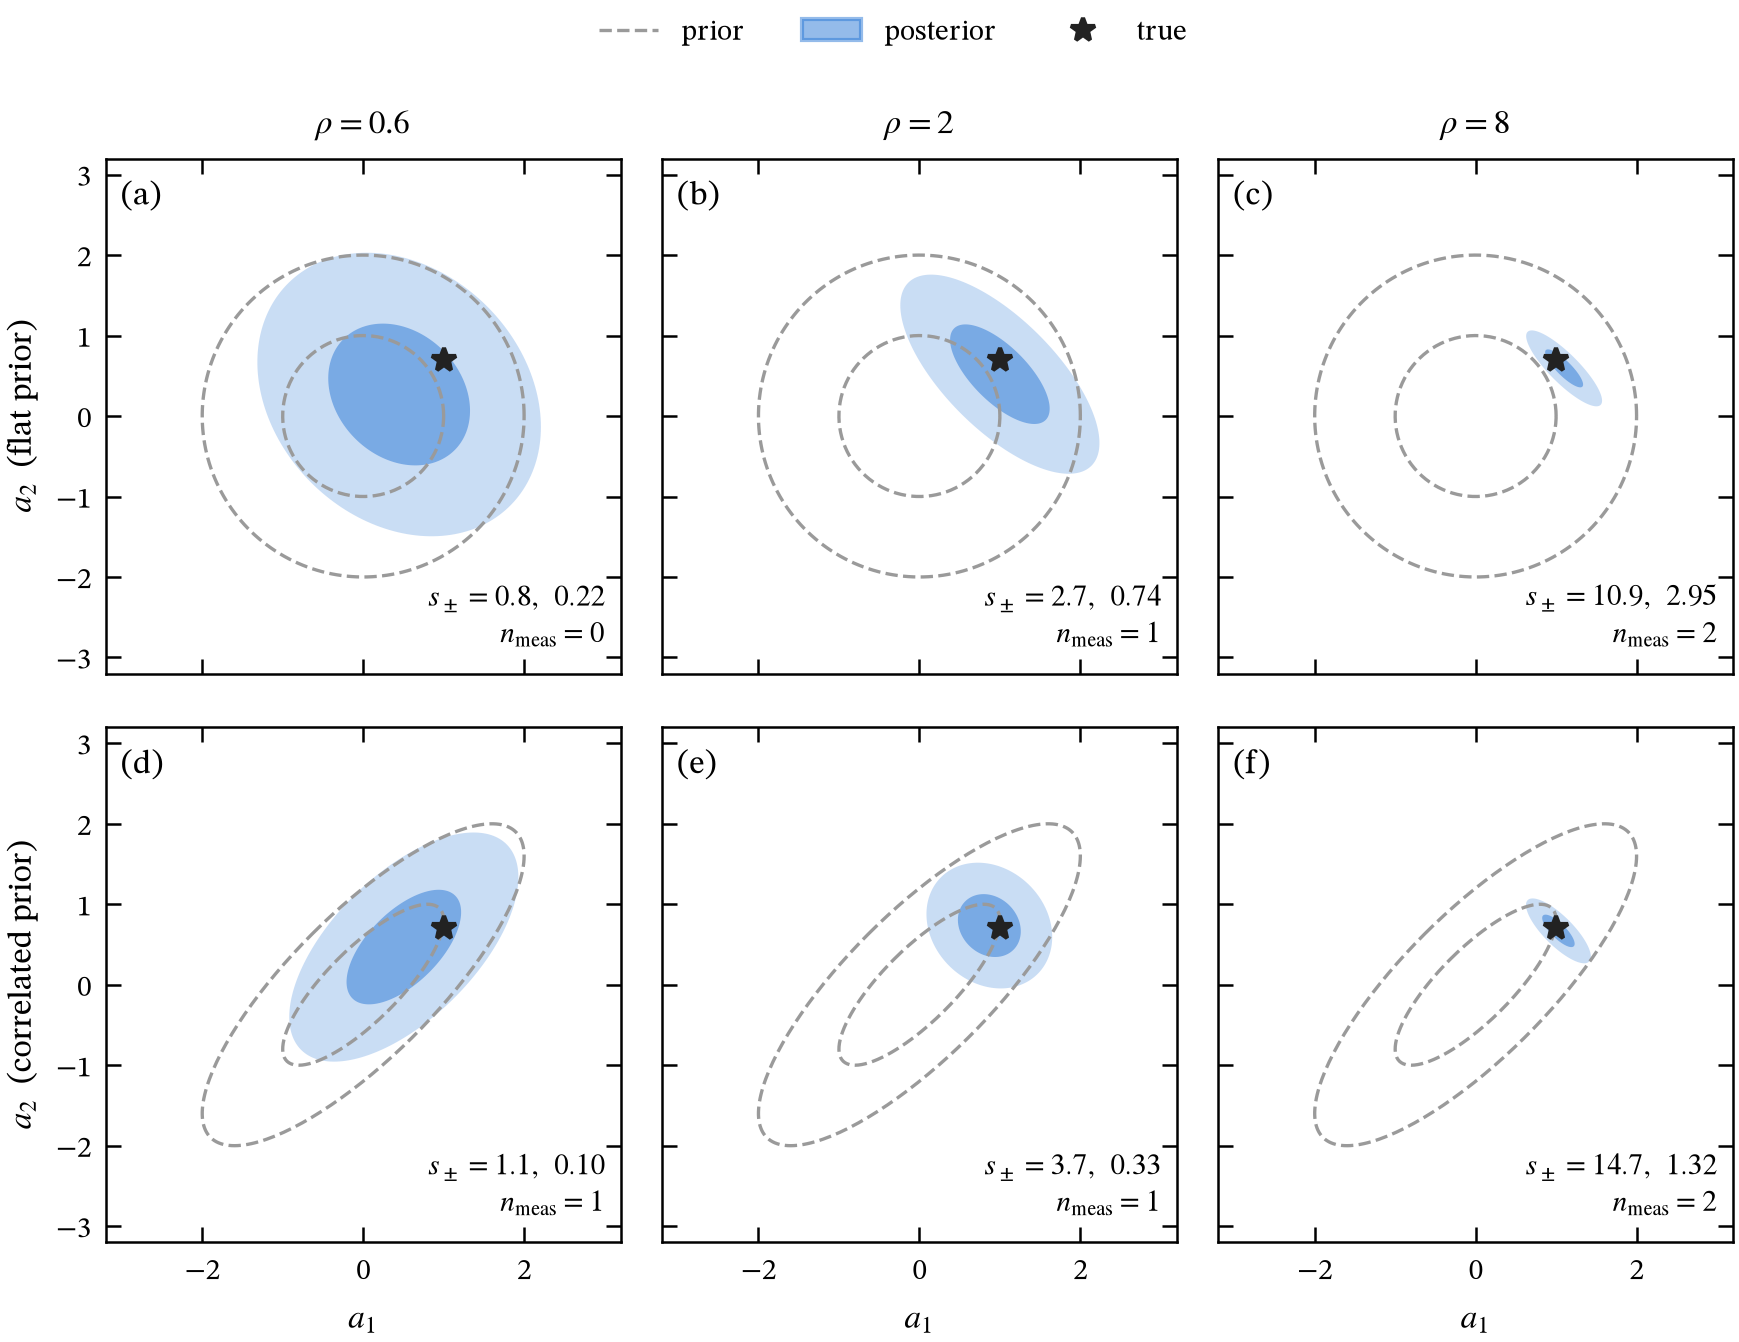
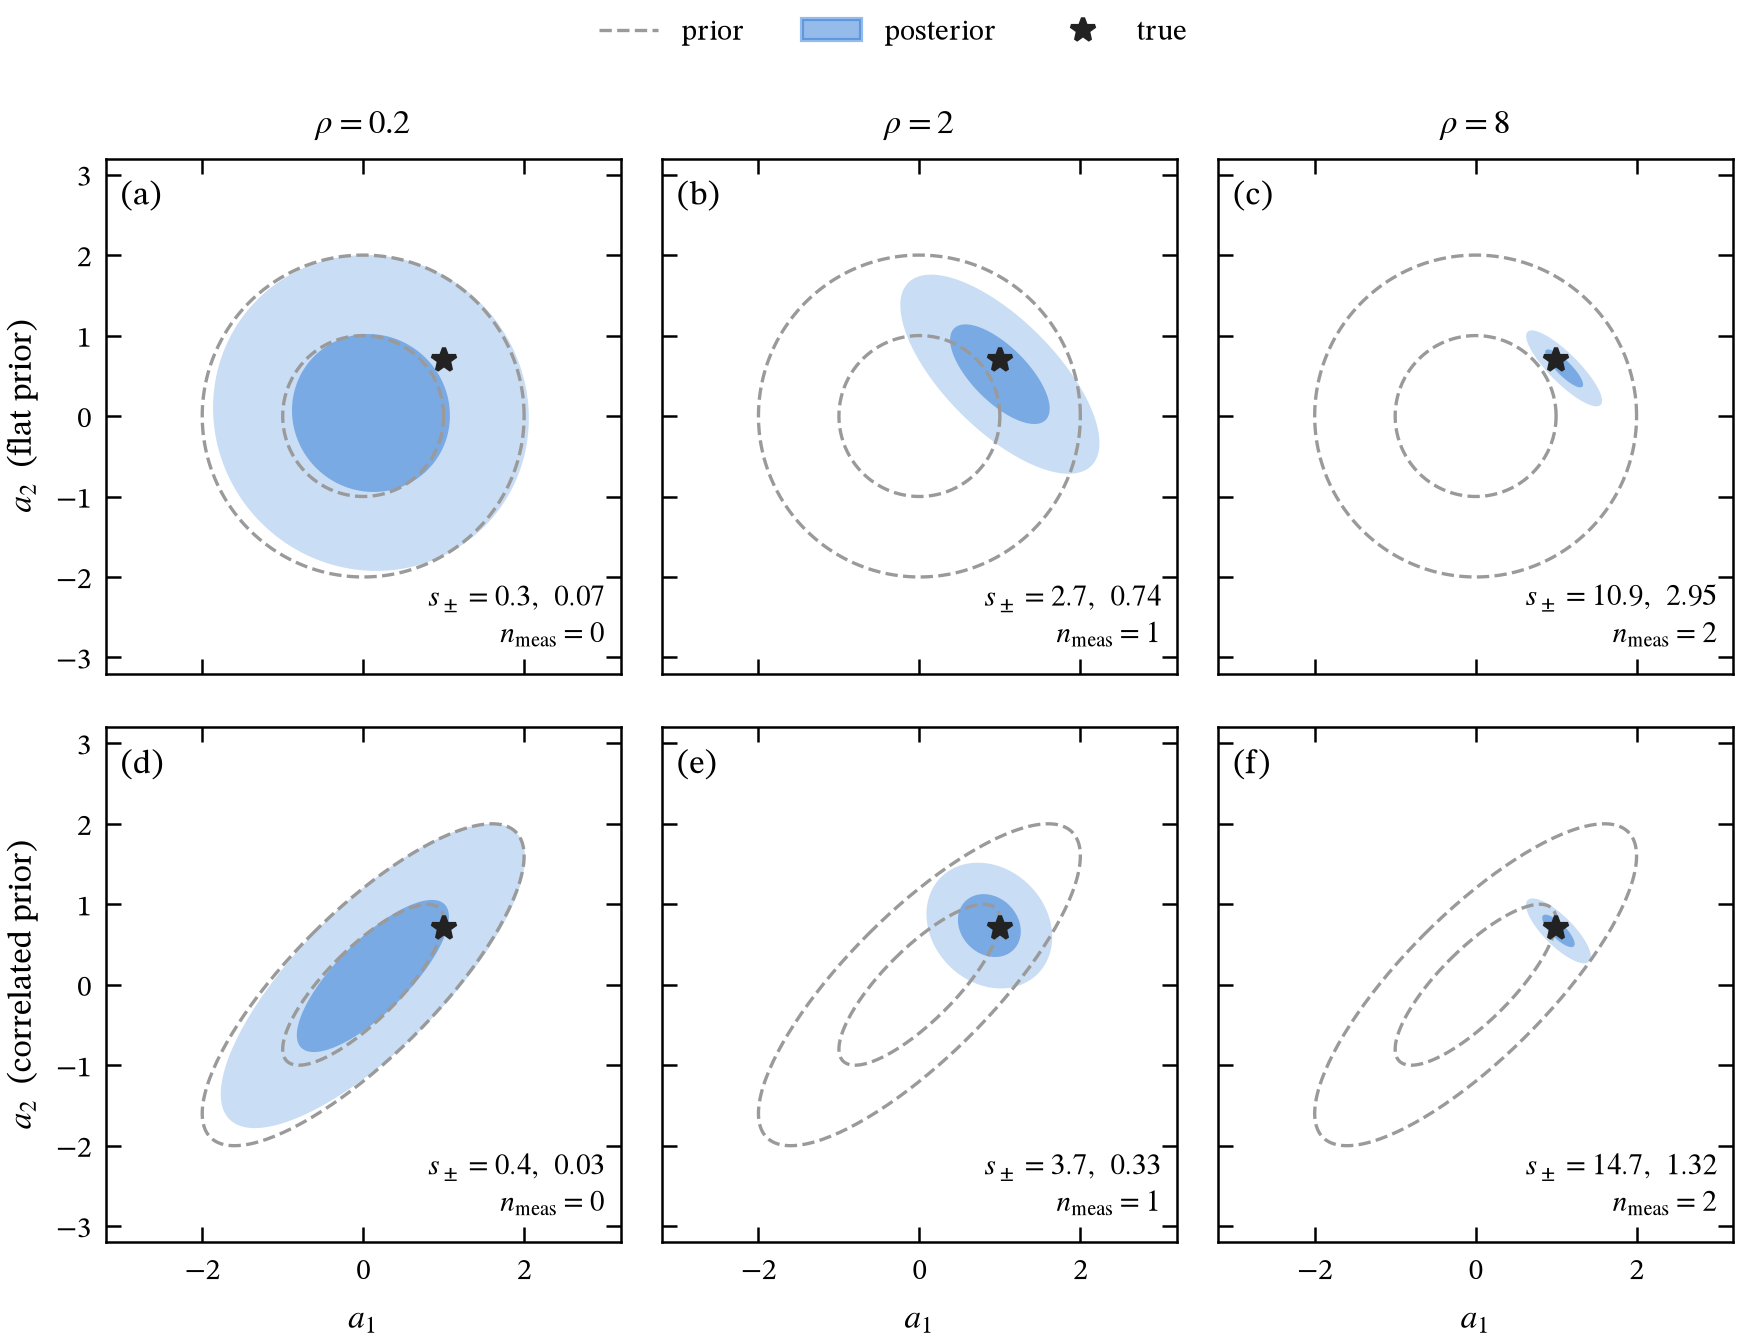
measuring-qnms: non-modal GP (§10, F6), toy F5 at rho=0.2, plan and log

diff --git a/projects/measuring-qnms/results.md b/projects/measuring-qnms/results.md
@@ -1,16 +1,31 @@
 Findings under the v2 model (complex strain, tied mirror modes, detector noise, NR-calibrated priors), newest first. Every analysis starts at $t_0 = 10\,M_f$ after the peak of $|h_{22}|$ unless stated. The v1 plots and the earlier F1 (the calibration scatter) are retired; their numbers remain in the [log](#log).
 
-### F5 — Two-mode toy model: what 0, 1 and 2 measurable channels look like
+### F6 — How does the count depend on the start time? A non-modal GP
 
 <figure>
-<a href="figs/toy_two_modes.png"><img src="figs/toy_two_modes.png" alt="Prior and posterior ellipses of two real amplitudes for three SNRs, flat prior on top and correlated prior below"></a>
-<figcaption>Prior (dashed, 1σ and 2σ) and posterior (filled, 1σ and 2σ) of two real amplitudes $(a_1, a_2)$ for per-mode SNR $\rho = 0.6, 2, 8$ (columns). The data overlap is $c = 0.864$, the 220–221 value at $\chi_f = 0.686$. Top: flat prior. Bottom: correlated prior, $r = 0.8$. The star is the true value, and each panel gives the channel strengths $s_\pm$, with $s_\pm^2 = \rho^2 (1 \pm r)(1 \pm c)$ exactly ([derivations §9](#derivations)).</figcaption>
+<a href="figs/start_time.png"><img src="figs/start_time.png" alt="Measurable channels against analysis start time for O4, CE 40 km and ET under three models"></a>
+<figcaption>$n_{\rm meas}$ against the start time $t_0$ for the GW250114-like source at its distance. Blue: trusted modes (fundamentals + overtones NR sees) with the non-modal Gaussian process added to the noise ([derivations §10](#derivations)). Orange: every mode ($\ell \le 8$, $n \le 7$, unseen overtones zero-mean), no GP. Grey: trusted modes, no GP. The vertical line is the current default start, $10\,M$.</figcaption>
 </figure>
 
 **Takeaway.**
 
-- **Flat prior:** no channels at $\rho = 0.6$ (the posterior barely moves). One at $\rho = 2$: the sum $a_1 + a_2$ is measured and the difference is not. Both at $\rho = 8$. Resolving two overlapping damped modes needs $\rho > 1/\sqrt{1 - c} = 2.7$.
-- **Correlated prior:** the prior already ties $a_1$ to $a_2$. One channel appears at lower SNR, and resolving the difference needs $\rho > 6.1$. At $\rho = 2$ the posterior is compact with only one measurable channel. $n_{\rm meas}$ counts what the *data* teach us; the prior supplies the rest.
+- **Without the GP, starting earlier keeps adding channels:** O4 goes from 6 to 12 and ET from 14 to 25 between $t_0 = 10$ and 0. The free overtones absorb the non-modal content near the merger and are counted as modes.
+- **With the GP, the count is flat for any start before about 10–15 M:** O4 4, CE 40 km 8, ET 10. Early data are down-weighted by the non-modal noise, so the answer no longer depends on the arbitrary choice of $t_0$, and we could start at the merger.
+- The late GP term (14% of each harmonic, decaying with it) changes the counts by at most 1. The effect comes from the early term plus restricting the signal to trusted modes.
+
+**Reproduce.** `python -m mqnm.experiments.start_time`.
+
+### F5 — Two-mode toy model: what 0, 1 and 2 measurable channels look like
+
+<figure>
+<a href="figs/toy_two_modes.png"><img src="figs/toy_two_modes.png" alt="Prior and posterior ellipses of two real amplitudes for three SNRs, flat prior on top and correlated prior below"></a>
+<figcaption>Prior (dashed, 1σ and 2σ) and posterior (filled, 1σ and 2σ) of two real amplitudes $(a_1, a_2)$ for per-mode SNR $\rho = 0.2, 2, 8$ (columns). The data overlap is $c = 0.864$, the 220–221 value at $\chi_f = 0.686$. Top: flat prior. Bottom: correlated prior, $r = 0.8$. The star is the true value, and each panel gives the channel strengths $s_\pm$, with $s_\pm^2 = \rho^2 (1 \pm r)(1 \pm c)$ exactly ([derivations §9](#derivations)).</figcaption>
+</figure>
+
+**Takeaway.**
+
+- **Flat prior:** no channels at $\rho = 0.2$; the posterior is the prior. One at $\rho = 2$: the sum $a_1 + a_2$ is measured and the difference is not. Both at $\rho = 8$. Resolving two overlapping damped modes needs $\rho > 1/\sqrt{1 - c} = 2.7$.
+- **Correlated prior:** again nothing at $\rho = 0.2$. The prior already ties $a_1$ to $a_2$, so resolving the difference needs $\rho > 6.1$. At $\rho = 2$ the posterior is compact with only one measurable channel. $n_{\rm meas}$ counts what the *data* teach us; the prior supplies the rest.
 
 **Reproduce.** `python -m mqnm.experiments.toy_two_modes`.
 

diff --git a/projects/measuring-qnms/derivations.md b/projects/measuring-qnms/derivations.md
@@ -237,3 +237,33 @@ $$
 For the 220 and 221 at $\chi_f = 0.686$, $c = 0.864$. The second channel then needs $\rho > 2.7$ with a flat prior and $\rho > 6.1$ with $r = 0.8$. Finding F5 shows the three regimes (0, 1 and 2 channels) for both priors.
 
 **Complex amplitudes.** Each complex amplitude is two real parameters. With circular priors and both polarizations, every $s_i$ appears twice, which is why the counts in F3 and F4 come in pairs for the dominant modes.
+
+## 10. Non-modal content as noise
+
+**Why.** Near the merger the strain is not yet a sum of QNMs. If free overtones are allowed to absorb that content, they are counted as measurable channels, and $n_{\rm meas}$ keeps growing as the start time moves earlier (F6). Following Dyer & Moore (arXiv:2510.11783), we instead model what the QNM model misses as a Gaussian process and add it to the *noise*. The signal keeps only the modes we have evidence for: all fundamentals, plus the overtones NR sees (221, 331, 211, 321, 441).
+
+**Kernel.** For each $m > 0$ harmonic, independently,
+
+$$
+k_{\ell m}(t, t') = \sigma_{\ell m}^2 \Big[\lambda_e^2\, e^{-(t + t')/\tau} + \lambda_l^2\, e^{-\gamma_{\ell m 0}(t + t')}\Big]\, e^{-(t - t')^2/2\ell_c^2}\, e^{-i\,\mathrm{Re}\,\omega_{\ell m 0}\,(t - t')},
+$$
+
+with $\sigma_{\ell m} = |w_{\ell m}|\,\sigma_{220}$ the PN scale of the harmonic and $\gamma_{\ell m 0} = -\mathrm{Im}\,\omega_{\ell m 0}$.
+
+- The **early term** is the non-modal content near the merger.
+- The **late term** is modal content the model leaves out (quadratic, retrograde, mixing), which decays with the harmonic.
+- The oscillation at $\mathrm{Re}\,\omega_{\ell m 0}$ is what the NR residuals show (0.8–1.0 × that frequency).
+
+**Projection onto detectors.** The mirror harmonic carries $(-1)^\ell \bar e_{\ell m}$, so a detector reading $\mathrm{Re}[a h]$ sees $\mathrm{Re}[e_{\ell m}\beta]$ with $\beta = a Y_{\ell m} + \overline{a (-1)^\ell Y_{\ell,-m}}$. All detectors see the *same* realisation, so the GP is correlated across detectors:
+
+$$
+\mathrm{Cov}(d_i, d_j) \mathrel{+}= \tfrac12\,\mathrm{Re}\big(\beta_i \bar\beta_j\, k_{\ell m}\big).
+$$
+
+**Calibration.** Maximum likelihood on the (2,2) residuals of 30 SXS runs, 0–20 M. The residual is modelled as the prior-predictive covariance of the trusted modes, conditioned on the fitted 220 (with a 2% fit uncertainty), plus the GP:
+
+$$
+\lambda_e = 3.07, \quad \tau = 3.9\,M, \quad \lambda_l = 0.14, \quad \ell_c = 11\,M .
+$$
+
+At the merger the non-modal content is about $3\,\sigma_{22}$, and it has decayed to about 8% by $10\,M$. Only (2,2) is used because the PN scale is too poor a normaliser to pool the weaker harmonics (the fit then runs to its bounds). The same kernel, scaled by each $\sigma_{\ell m}$, is applied to every harmonic. That is a stated limitation.

diff --git a/projects/measuring-qnms/plan.md b/projects/measuring-qnms/plan.md
@@ -2,8 +2,8 @@
 
 <div style="margin: 0.6rem 0 0.2rem; font-variant-caps: small-caps; color: var(--muted);">original plan (items 1–8) · 7 of 7 done</div>
 <div style="background: var(--hair); height: 0.7rem; border-radius: 0.35rem; overflow: hidden;"><div style="width: 100%; height: 100%; background: var(--accent);"></div></div>
-<div style="margin: 0.9rem 0 0.2rem; font-variant-caps: small-caps; color: var(--muted);">follow-ups · 1 of 8 done</div>
-<div style="background: var(--hair); height: 0.7rem; border-radius: 0.35rem; overflow: hidden;"><div style="width: 12.5%; height: 100%; background: var(--accent);"></div></div>
+<div style="margin: 0.9rem 0 0.2rem; font-variant-caps: small-caps; color: var(--muted);">follow-ups · 2 of 8 done</div>
+<div style="background: var(--hair); height: 0.7rem; border-radius: 0.35rem; overflow: hidden;"><div style="width: 25%; height: 100%; background: var(--accent);"></div></div>
 
 ## Original plan
 
@@ -24,7 +24,7 @@
 | Code: private repo, tests, tutorial notebook | <span style="color: var(--accent)">✓ done</span> | github.com/jredondoyuste/mqnm |
 | Which modes each measured channel corresponds to | <span style="color: var(--accent-2)">◐ next</span> | project each channel onto the modes |
 | Realistic sky positions and antenna patterns (H1/L1 for GW250114) | <span style="color: var(--accent-2)">◐ next</span> | replaces the overhead, co-located idealisation |
-| Start before 10 M | <span style="color: var(--muted)">○ open</span> | model pre-10 M non-QNM content as structured noise with a GP kernel (Dyer & Moore) |
+| Start before 10 M: non-modal GP noise | <span style="color: var(--accent)">✓ first version</span> | [§10](#derivations), F6. The count is flat for any start before ~10–15 M. Next: calibrate beyond (2,2); decide whether it replaces the 10 M default |
 | 221 bias: 1σ coverage only 26% | <span style="color: var(--muted)">○ open</span> | NR sits at 0.8× the QNEF prediction with little scatter |
 | Correlated fundamental and overtone errors ((3,3): +0.53) | <span style="color: var(--muted)">○ open</span> | the independent model slightly underestimates the total error |
 | Harmonics other than (2,2) under-covered at late times | <span style="color: var(--muted)">○ open</span> | quadratic 220×220 and retrograde content not modelled |

diff --git a/projects/measuring-qnms/log.md b/projects/measuring-qnms/log.md
@@ -1,5 +1,12 @@
 Newest first. One entry per working session: what was done, what was learned, and what went wrong.
 
+### 2026-09-25 — non-modal GP; the count no longer depends on the start time
+
+- Diagnosis: with every overtone in the signal, the prior *over*-predicts the early residual (5% of predicted at $t = 0$). The unseen overtones act as free absorbers of non-modal content and count as channels.
+- New model (§10): the signal keeps the trusted modes; everything else is a GP in the noise. The two-term kernel is fitted by maximum likelihood on SXS (2,2) residuals: $\lambda_e = 3.1$, $\tau = 3.9\,M$, $\lambda_l = 0.14$, $\ell_c = 11\,M$. Pooling across harmonics failed (the fit runs to its bounds), so the kernel is calibrated on (2,2) only.
+- F6: with the GP, $n_{\rm meas}$ is flat for $t_0 \lesssim 10$–15 M (O4 4, CE 40 km 8, ET 10). Without it, O4 reaches 12 and ET 25 at $t_0 = 0$.
+- F5: the left column is now at $\rho = 0.2$, where the posterior is the prior.
+
 ### 2026-09-25 — no QNEF extrapolation; e and f checked; toy model; plan redrawn
 
 - **(i) No extrapolation.** Excitation factors are used only inside their tables ($\ell \le 7$, $n \le 3$). Everything else takes the zero-mean model; for $\ell = 8$ its scale uses the median tabulated $|g_{\ell m 1}|$. Recalibrated $a$ and regenerated the figures.
